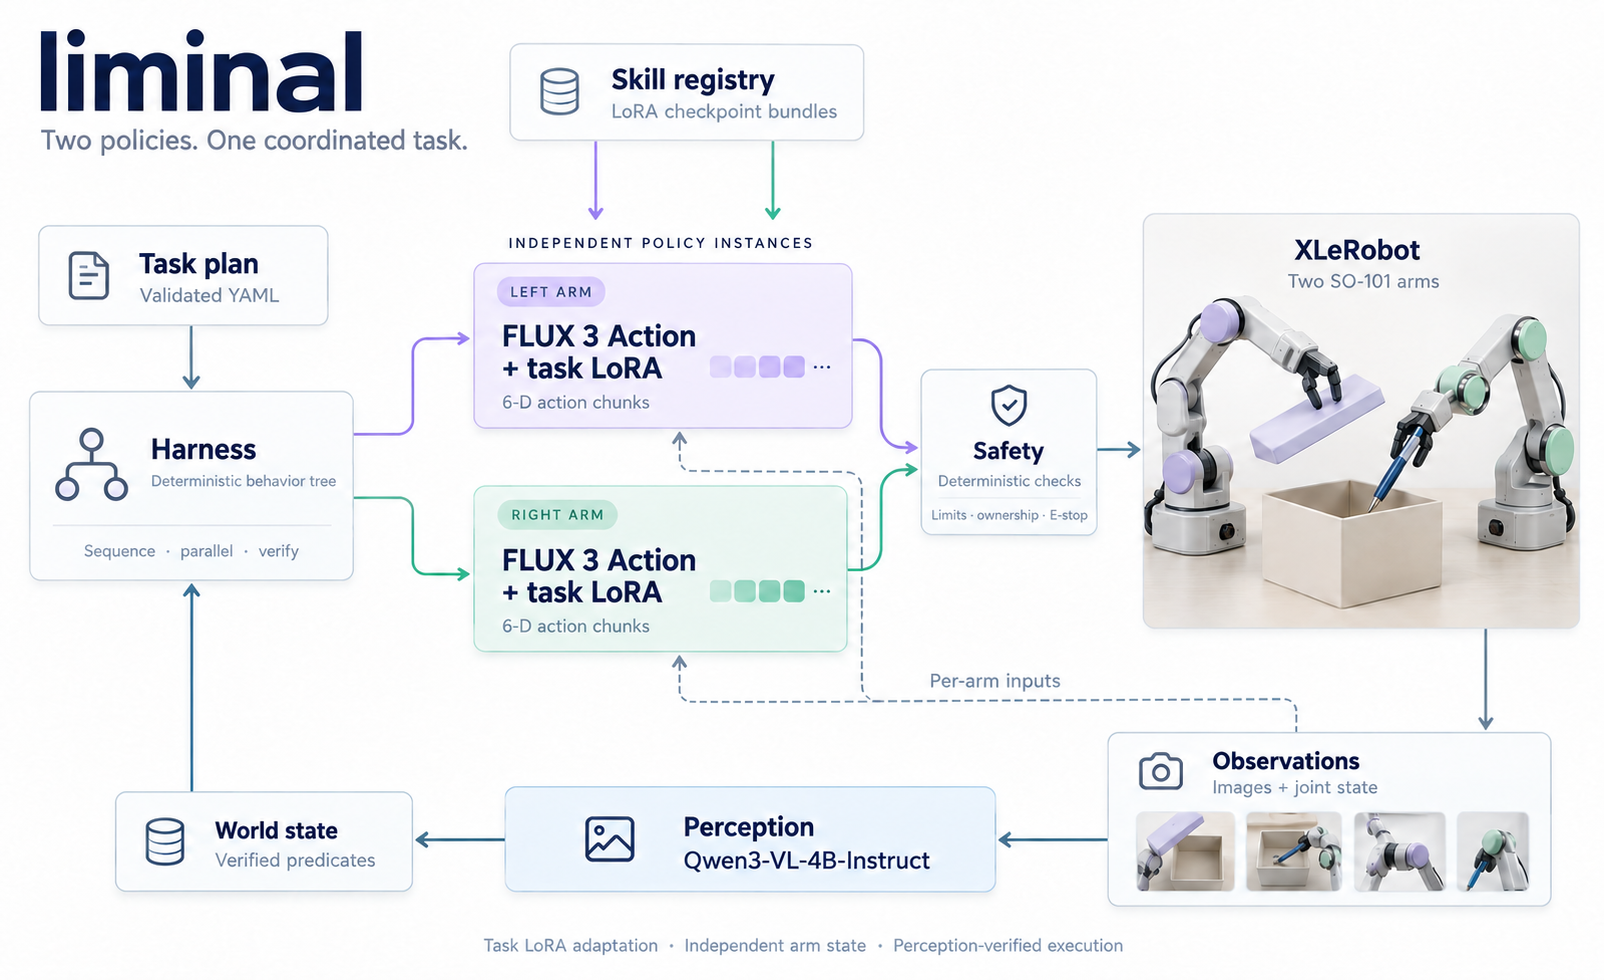
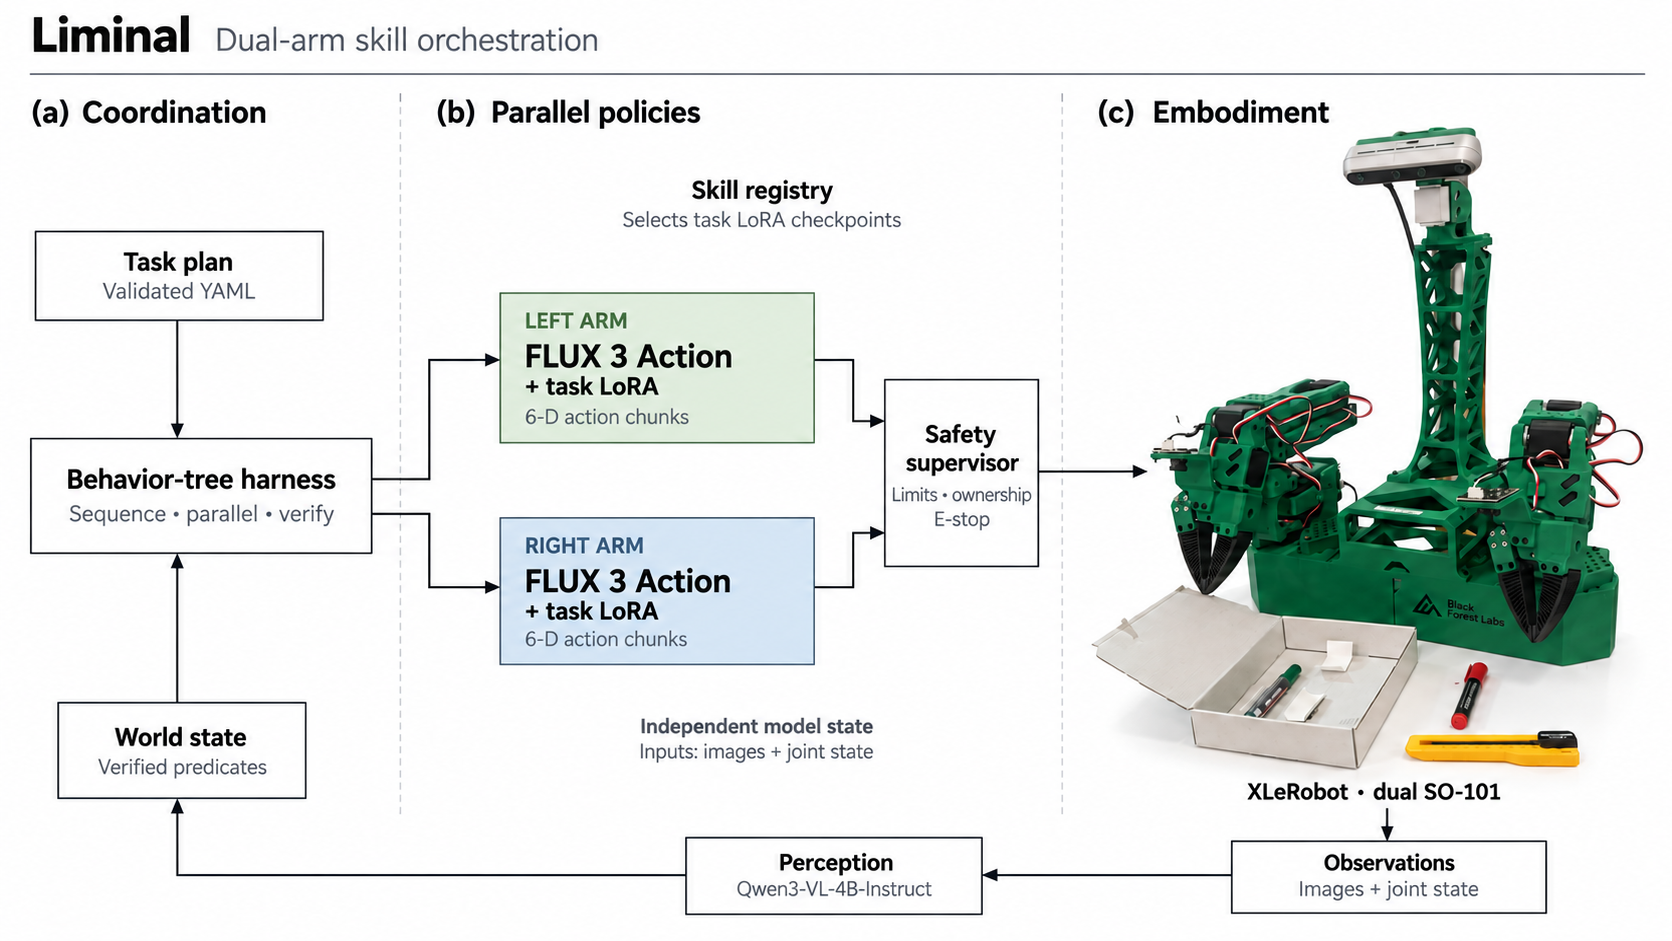
ws3: refine architecture figure around the actual robot

diff --git a/README.md b/README.md
@@ -20,11 +20,14 @@ Full learned dual-arm hardware performance remains unverified.*
 The figure shows the main learned-skill path. Local hold/release primitives bypass
 VLA inference; optional task-planning models and the disabled standalone hybrid
 controller are omitted. Each policy receives its arm's joint state and camera
-observations; joint states come from the arm drivers. The robot artwork is schematic.
+observations; joint states come from the arm drivers. The embodiment panel uses
+the supplied photograph of our green XLeRobot rig, with its room background removed
+and the composition adapted for the figure. It illustrates the hardware, not a
+recorded successful rollout.
 See [the architecture](docs/architecture.md) for the complete contracts.
 
-Original artwork generated with the built-in image-generation tool;
-[reproducible art brief](docs/assets/architecture-prompt.txt).
+Figure generated and refined with the built-in image-generation tool using our
+robot photograph; [generation and refinement prompts](docs/assets/architecture-refined-prompt.txt).
 Visual references: [OpenVLA](https://openvla.github.io/) and its
 [GitHub repo](https://github.com/openvla/openvla),
 [Diffusion Policy](https://diffusion-policy.cs.columbia.edu/) and its
